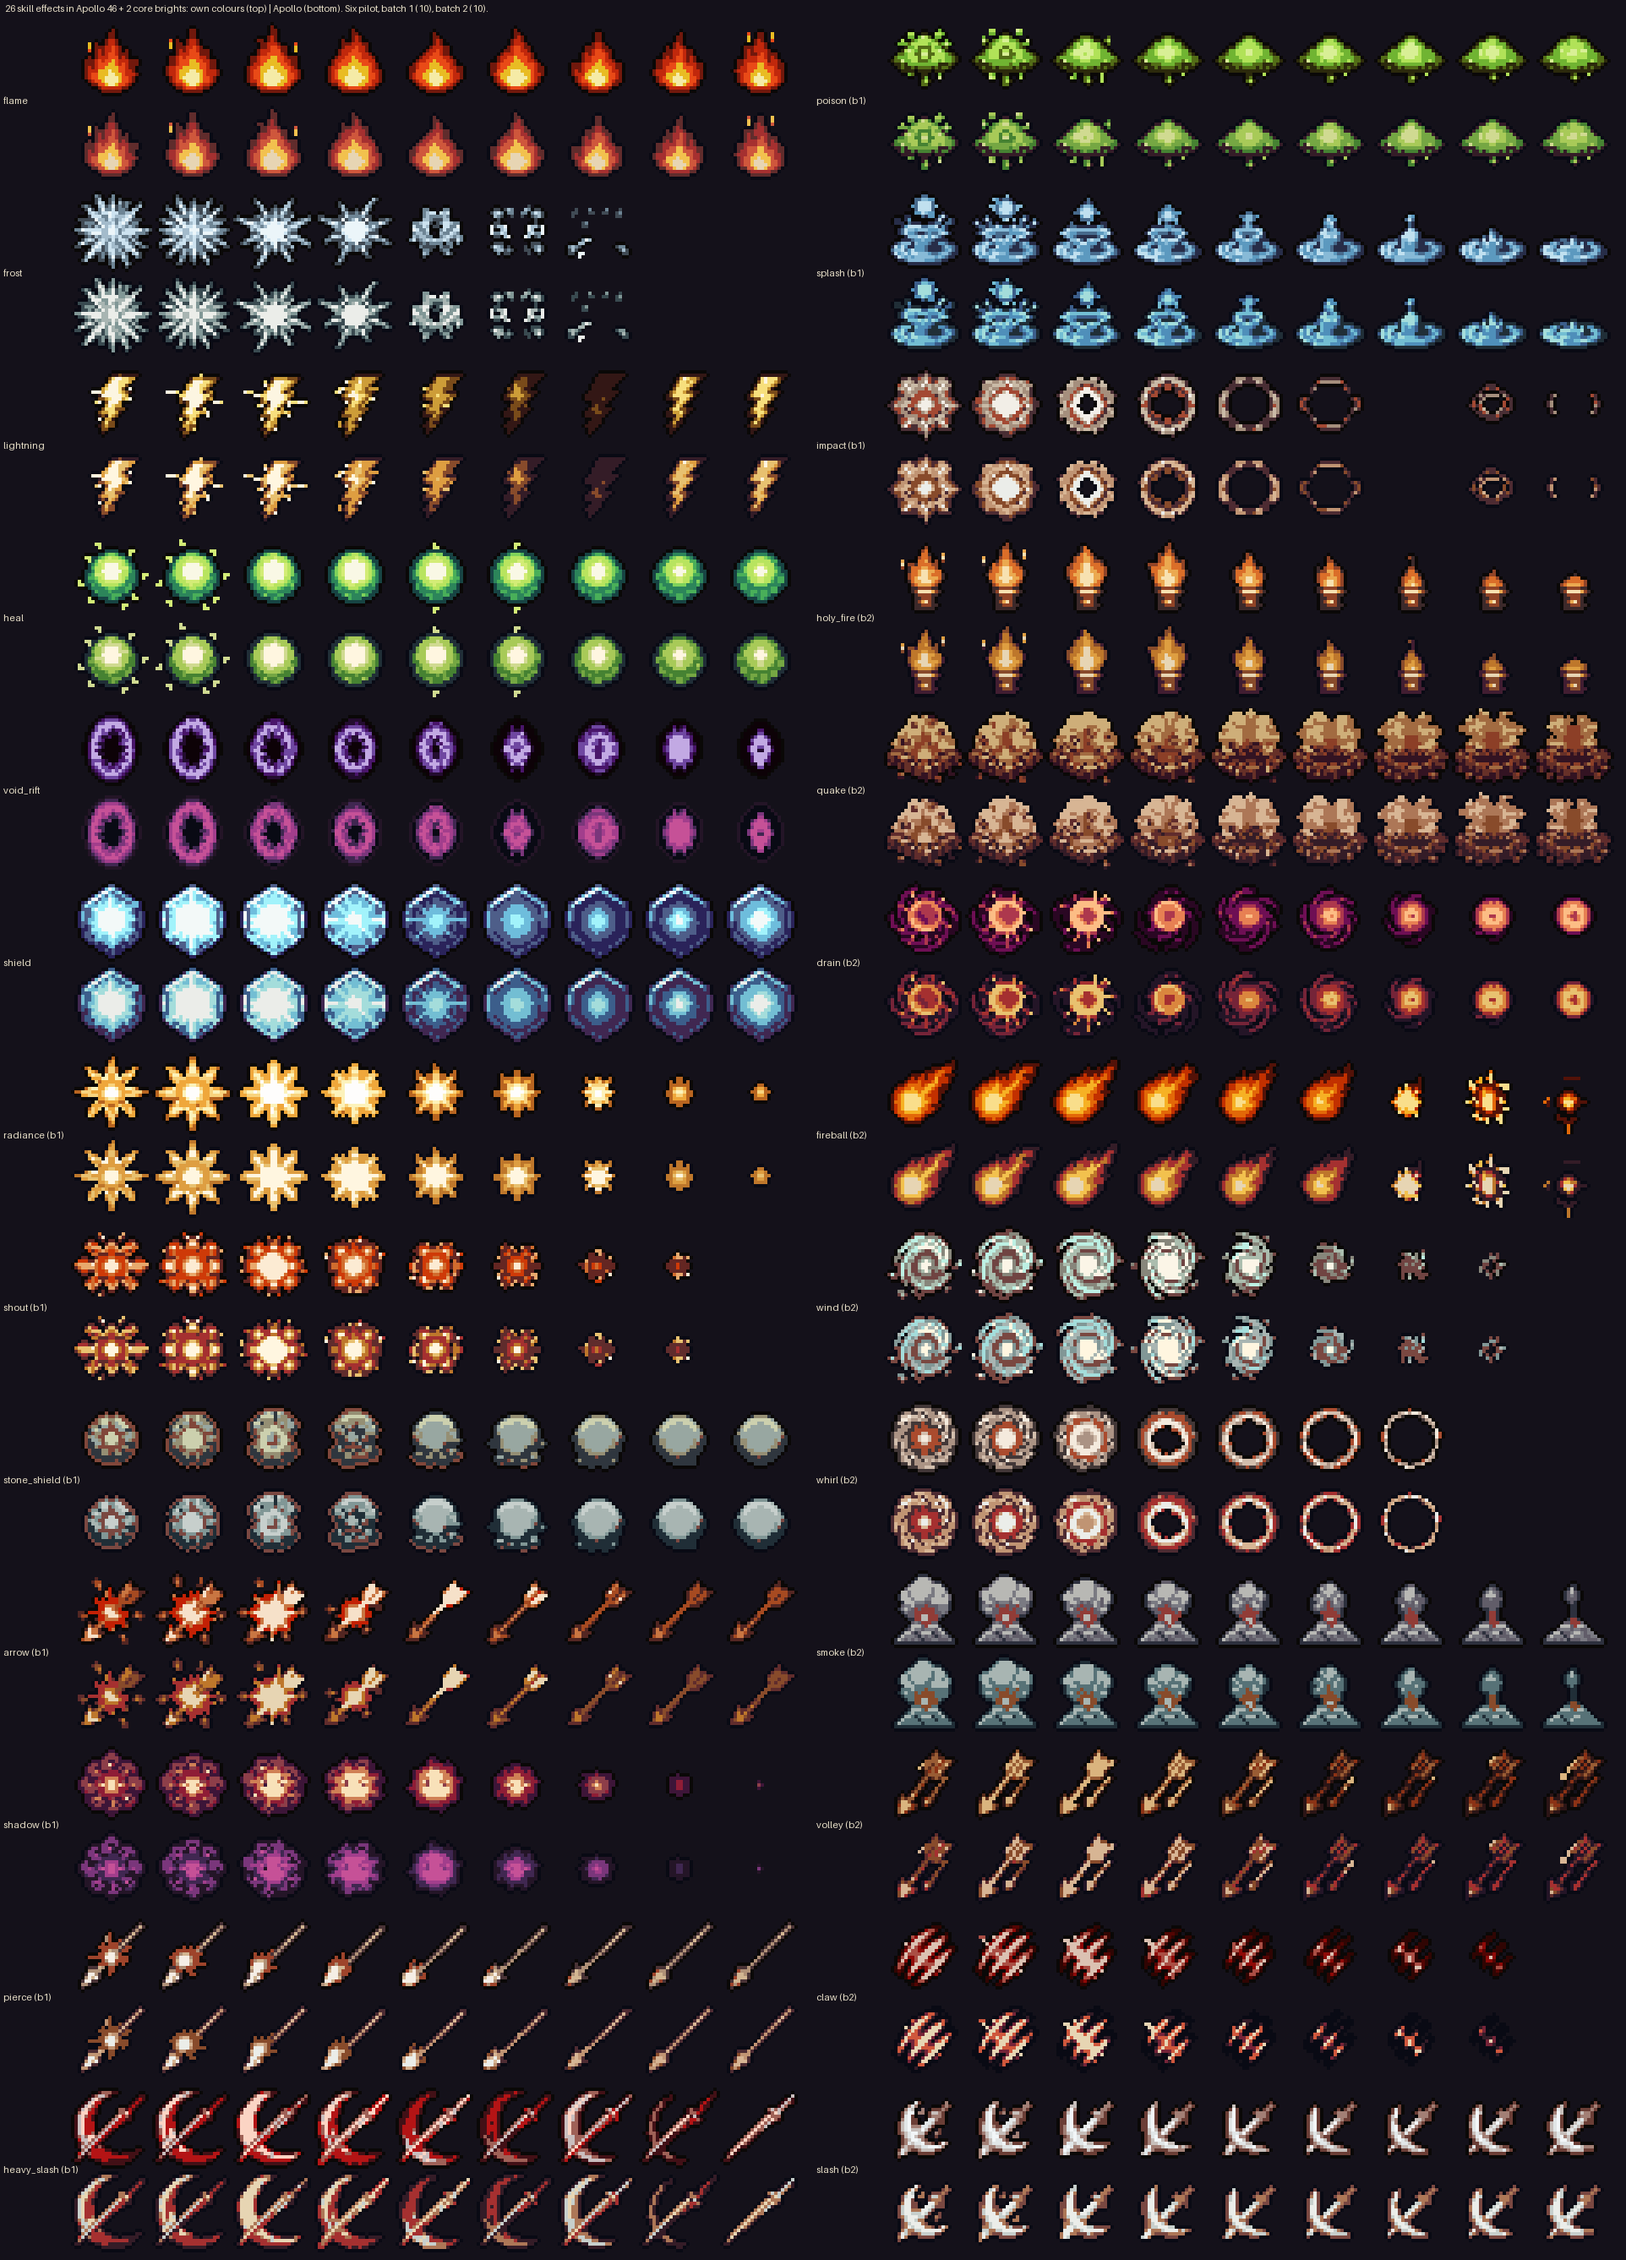
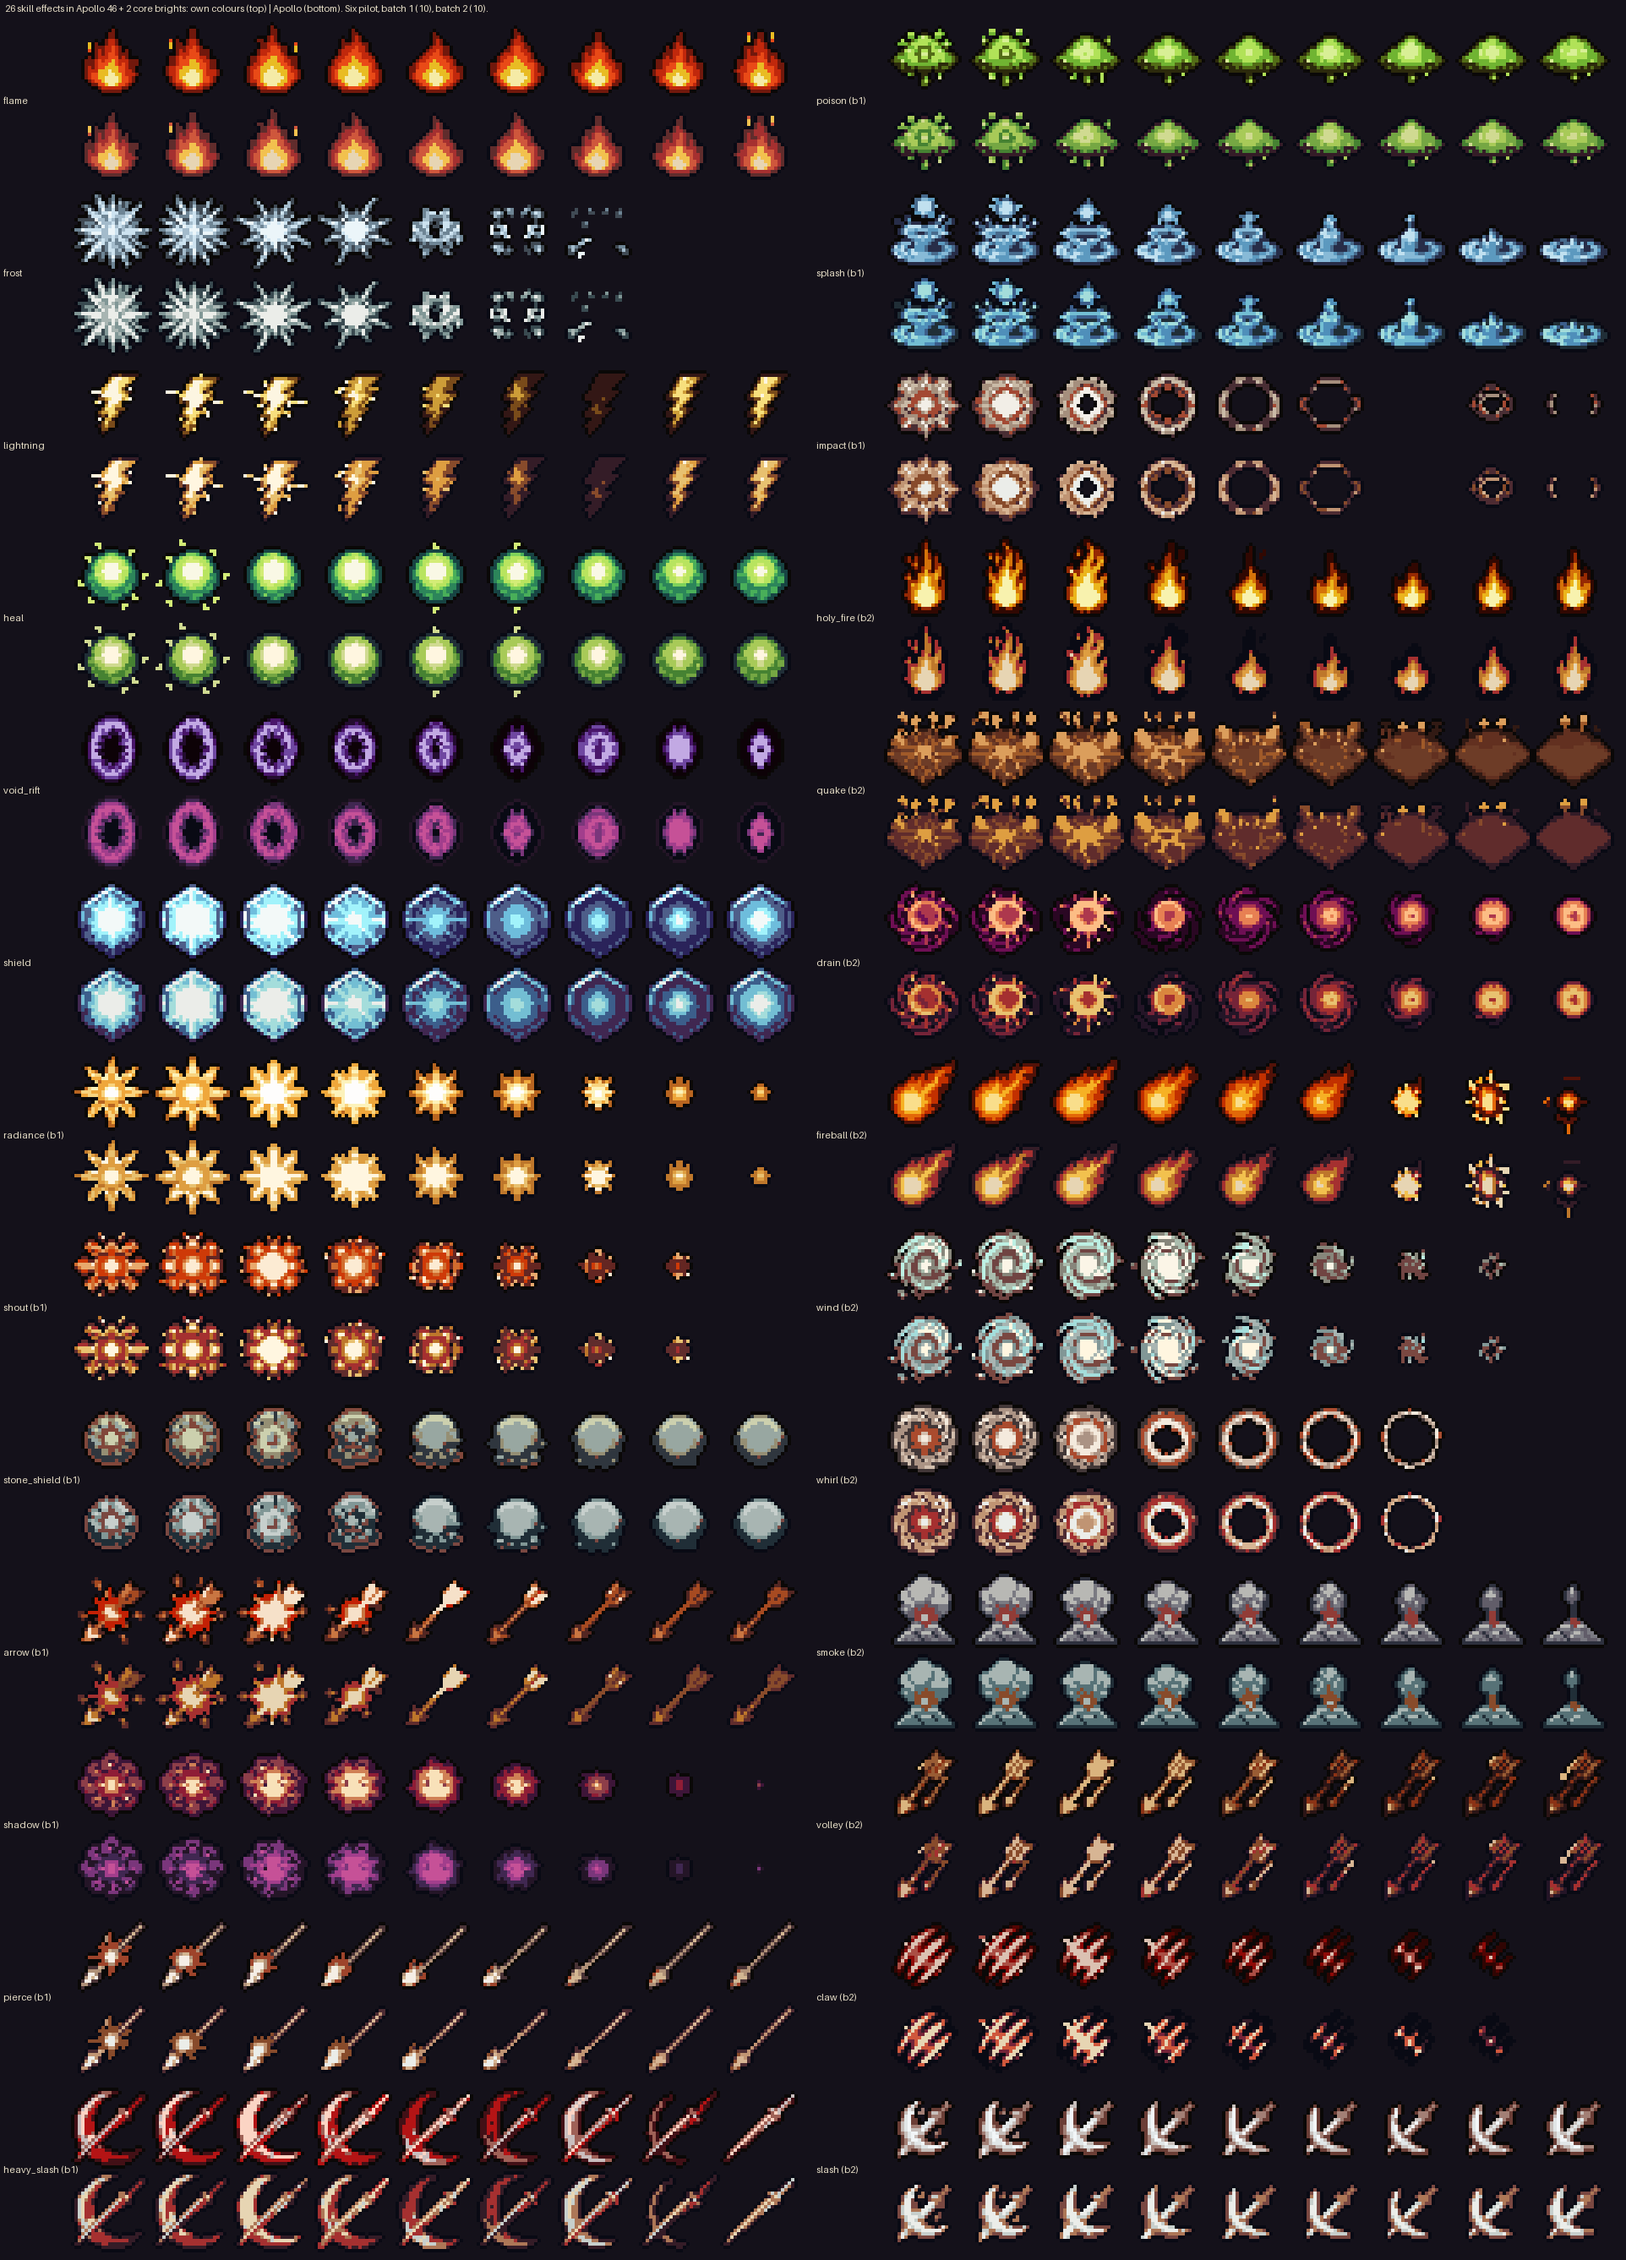
Art: skill effects batch 2 (10 styles) and batch 1 in Apollo + 2 brights, 26-effect sheet, notes
Claude-Session: https://claude.ai/code/session_019ETFw1Uj2cByEfEuTF2CxM

Changed region(s): [[0.5301, 0.2173, 0.9979, 0.4035]]

diff --git a/art/pixellab-vfx/batch2_post.py b/art/pixellab-vfx/batch2_post.py
@@ -5,10 +5,10 @@ sys.path.insert(0,'art/pixellab-vfx'); sys.path.insert(0,'tool')
 import rawer_gen as G
 from apollo_remap import remap
 from PIL import Image
-B='art/pixellab-vfx/batch2'; S=json.load(open(sys.argv[1])); jobs={a['k']:a['job'] for a in S['active']}
+B=os.environ.get('B','art/pixellab-vfx/batch2'); OUTD=os.environ.get('OUTD','art/pixellab-apollo-skills/vfx'); S=json.load(open(sys.argv[1])); jobs={a['k']:a['job'] for a in S['active']}
 jobs.update(json.load(open(B+'/jobs.json')) if os.path.exists(B+'/jobs.json') else {})
 styles=sys.argv[2].split(',') if len(sys.argv)>2 else list(jobs)
-os.makedirs(B+'/staged',exist_ok=True); os.makedirs(B+'/final',exist_ok=True); os.makedirs('art/pixellab-apollo-skills/vfx',exist_ok=True)
+os.makedirs(B+'/staged',exist_ok=True); os.makedirs(B+'/final',exist_ok=True); os.makedirs(OUTD,exist_ok=True)
 for s in styles:
     d=f'{B}/raw/{s}_anim9'; os.makedirs(d,exist_ok=True)
     for i in range(9):
@@ -18,5 +18,5 @@ for s in styles:
     for i in range(9): strip.paste(Image.open(f'{d}/frame_{i}.png').convert('RGBA').resize((48,48),Image.NEAREST),(i*48,0))
     strip.save(f'{B}/staged/vfx_{s}.png')
     im=G.process(s,src_dir=f'{B}/staged'); G.png8(im).save(f'{B}/final/vfx_{s}.png',optimize=True)
-    remap(Image.open(f'{B}/final/vfx_{s}.png').convert('RGBA'),pal='apollo+cores').save(f'art/pixellab-apollo-skills/vfx/vfx_{s}.png')
+    remap(Image.open(f'{B}/final/vfx_{s}.png').convert('RGBA'),pal='apollo+cores').save(f'{OUTD}/vfx_{s}.png')
     print('ok',s)

diff --git a/art/pixellab-vfx/batch2_sheet.py b/art/pixellab-vfx/batch2_sheet.py
@@ -9,7 +9,7 @@ OUT='art/pixellab-apollo-skills/vfx/'
 SIX=['flame','frost','lightning','heal','void_rift','shield']
 B1=['radiance','shout','stone_shield','arrow','shadow','pierce','heavy_slash','poison','splash','impact']
 B2=['holy_fire','quake','drain','fireball','wind','whirl','smoke','volley','claw','slash']
-src={**{s:f'art/pixellab-vfx/final/vfx_{s}.png' for s in SIX},**{s:f'art/pixellab-vfx/batch1/final/vfx_{s}.png' for s in B1},**{s:f'art/pixellab-vfx/batch2/final/vfx_{s}.png' for s in B2}}
+src={**{s:f'art/pixellab-vfx/final/vfx_{s}.png' for s in SIX},**{s:f'art/pixellab-vfx/batch1/final/vfx_{s}.png' for s in B1},**{s:(f'art/pixellab-vfx/retry2/final/vfx_{s}.png' if s in ('quake','holy_fire') else f'art/pixellab-vfx/batch2/final/vfx_{s}.png') for s in B2}}
 for s in B1:
     im=Image.open(src[s]).convert('RGBA')
     new=ramp(im,None) if s=='shadow' else remap(im,pal='apollo+cores')

diff --git a/docs/art/skill-effects-batch2.md b/docs/art/skill-effects-batch2.md
@@ -1,0 +1,6 @@
+# Skill effects batch 2 (drawn for the Apollo palette; not wired)
+Sheet `docs/art/boards/skill-effects-batch2.png`: all 26 effects (six pilot, batch 1's 10, batch 2's 10), own colours above, Apollo 46 + two core brights (F2C14E, FFF6E0) below. Palette list: `docs/art/palette-apollo.md`.
+Staged: `art/pixellab-apollo-skills/vfx/vfx_<style>.png` (432x48, 9 frames of 48x48, transparent): the six already there, batch 1's ten (remapped now, 0 generations; shadow hand-walked through Apollo's purples like void_rift; the rest plain nearest-colour), and batch 2's ten: holy_fire, quake, drain, fireball, wind, whirl, smoke, volley, claw, slash. Raw/own-colour strips in `art/pixellab-vfx/batch2/` and `retry2/`.
+Cost: **24 generations** (10 styles x 2 = 20, plus 4 for the retry of quake and holy_fire: a first frame + an animation each). Balance 962.5 to 938.5. Generator `art/pixellab-vfx/batch_gen.py` (batch2, retry2), post `batch2_post.py`, sheet `batch2_sheet.py`. Method: pixen 48x48 first frame, animate_image 8 frames (9 with the first), rawer reduction (24 grid x2), then nearest-colour map to the palette.
+Honest notes: good: fireball, drain, wind, claw, slash, whirl, volley, and holy_fire (retry: a pure flame; the first try was a torch). Weaker: quake (retry is a cracked glowing ground slab, not a burst of rock; it ends as a plain slab, so the code fades it out), smoke (a grey cloud on a small base; the base reads as a stand). slash, claw, volley, wind end with the object still visible (the code fades and shrinks it out, as for the flame and arrow). Shadow in Apollo is a bright magenta.
+Not wired: UX-2 wires from `art/pixellab-apollo-skills/vfx/` the same way as the six. Batch 3 left: bolt, meteor, mana.
